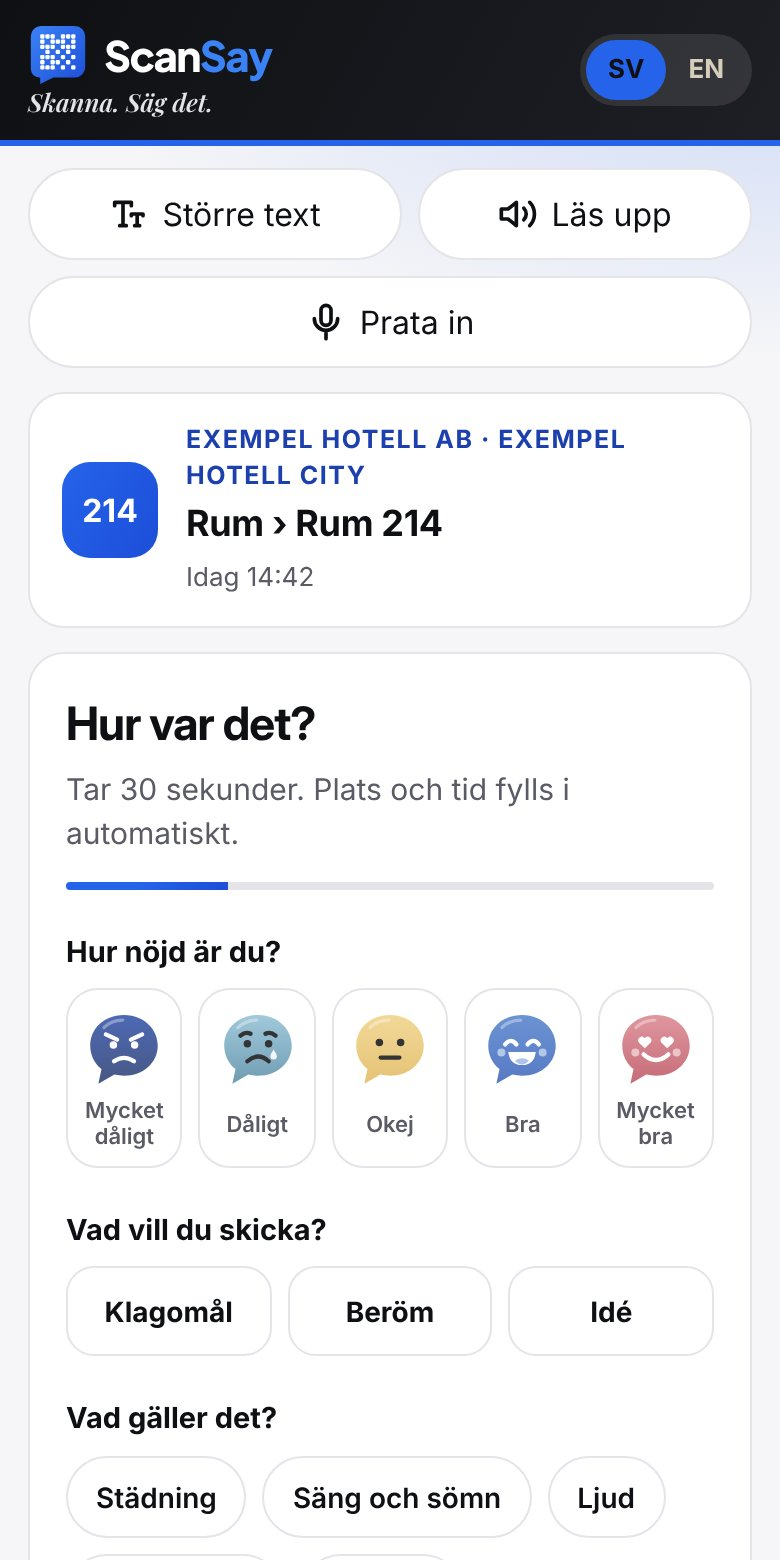
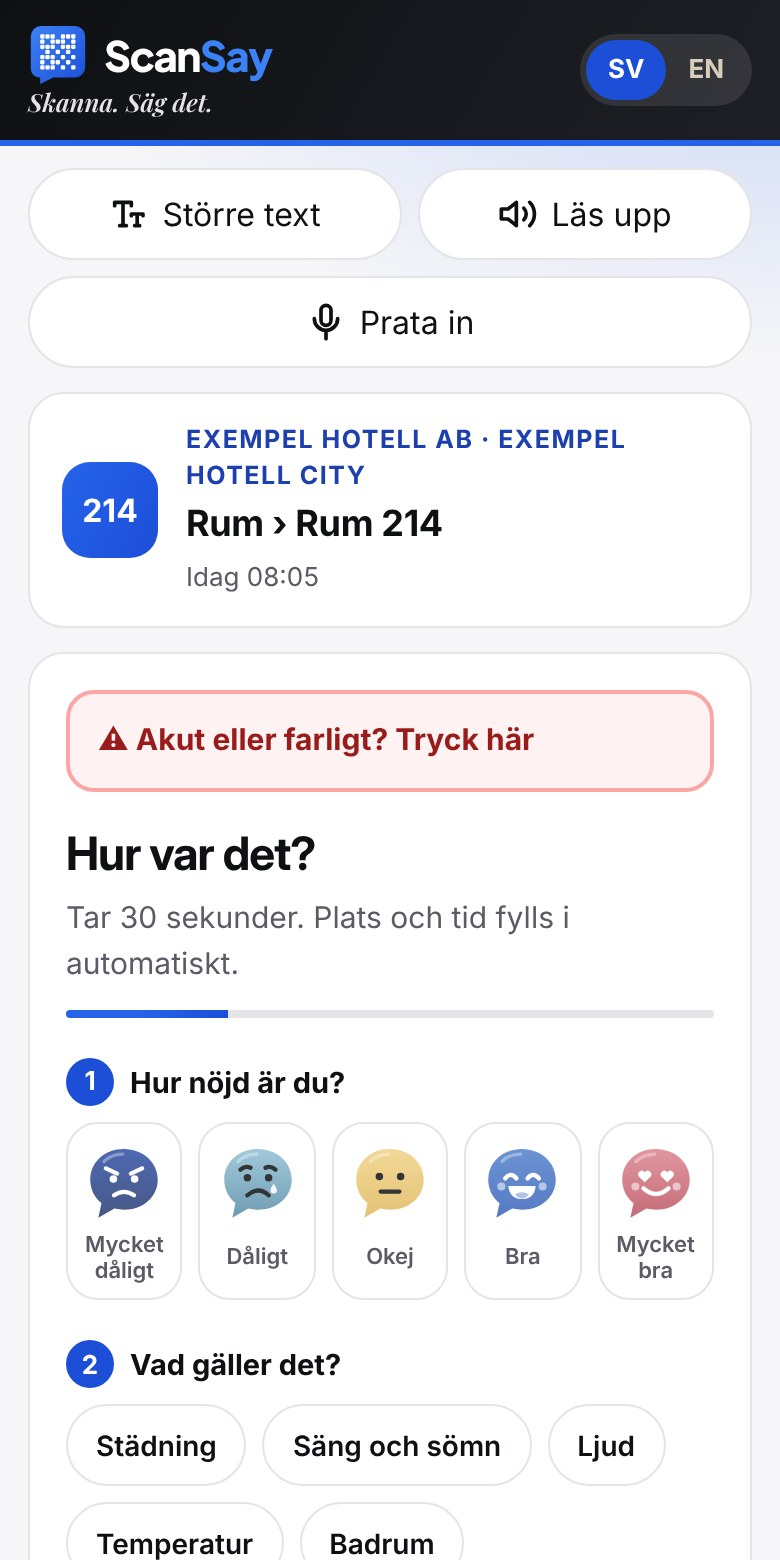
Add files via upload

diff --git a/sign/index.html b/sign/index.html
@@ -18,7 +18,7 @@ input[type=text],input[type=email]{width:100%;font:inherit;border:1px solid #D1D
 button{font:inherit;font-weight:800;border:0;border-radius:10px;padding:14px 20px;background:#1D4ED8;color:#fff;cursor:pointer;width:100%;margin-top:18px;font-size:16px}button:disabled{background:#9CA3AF;cursor:not-allowed}
 .small{font-size:12.5px;color:#4B5563}.ok{background:#DCFCE7;border:1px solid #86EFAC;border-radius:14px;padding:22px}.ok h1{color:#166534}
 table.r{border-collapse:collapse;width:100%;font-size:13.5px;margin-top:10px}table.r td{border:1px solid #E5E7EB;padding:7px 9px}
-@media (max-width:640px){.grid{grid-template-columns:1fr}.box{padding:18px}}
+@media (max-width:640px){.grid{grid-template-columns:1fr}.box{padding:18px}#choose{grid-template-columns:1fr!important}}
 @media print{.top,.box.f,.banner{display:none}body{background:#fff}}
 </style><link rel="stylesheet" href="../fonts.css">
 <style>body,button,input,select,textarea{font-family:var(--font)!important}h1,h2,h3{font-family:var(--font-h)!important}</style>
@@ -28,18 +28,21 @@ table.r{border-collapse:collapse;width:100%;font-size:13.5px;margin-top:10px}tab
 <script src="../legal/contract.js"></script>
 <script>
 const q=new URLSearchParams(location.search),T=q.get('t'),DEMO=q.get('demo')==='1',app=document.getElementById('app');
-const esc=SSContract.esc;let O=null;
+const esc=SSContract.esc;let O=null,ST='sent',NOTE='';
 function decodeDemo(t){const s=t.replace(/-/g,'+').replace(/_/g,'/');return JSON.parse(decodeURIComponent(escape(atob(s))))}
 async function load(){
   if(!T){app.innerHTML='<div class="err">Länken saknar avtal. Använd länken i mejlet från ScanSay.</div>';return}
-  try{if(DEMO){O=decodeDemo(T)}else{const r=await fetch('../api/offer?t='+encodeURIComponent(T));const j=await r.json();if(!r.ok)throw new Error(j.error||'Fel');O=j.offer}}
+  try{if(DEMO){O=decodeDemo(T)}else{const r=await fetch('../api/offer?t='+encodeURIComponent(T));const j=await r.json();if(!r.ok)throw new Error(j.error||'Fel');O=j.offer;ST=j.status||'sent';NOTE=j.note||''}}
   catch(e){app.innerHTML='<div class="err">'+esc(e.message||'Länken är ogiltig.')+'</div>';return}
   draw()}
 function draw(){const c=O.customer||{},card=O.method==='stripe',per=O.interval==='year'?'år':'månad';
   app.innerHTML=`<style>${SSContract.CSS}</style>${DEMO?'<div class="banner"><b>Demo.</b> Den här signeringen sparas inte. När servern är kopplad skickas ett signerat exemplar till båda parter.</div>':''}
-  <h1>Granska och signera</h1><p class="small">Läs igenom offerten och villkoren. Signeringen är juridiskt bindande. Ni får ett signerat exemplar per e-post.</p>
+  <h1>Granska offerten</h1><p class="small">Läs igenom offerten och villkoren. Ni kan signera direkt, be om ändringar eller tacka nej längst ner.</p>
+  ${NOTE?`<div class="box" style="margin-top:12px;border-left:5px solid #C8F542"><b>Meddelande från ScanSay</b><p style="margin:6px 0 0;white-space:pre-wrap">${esc(NOTE)}</p></div>`:''}
+  ${ST!=='sent'?`<div class="ok" style="margin:14px 0;${ST==='signed'?'':'background:#FFF7ED;border-color:#FED7AA'}"><h1 style="font-size:20px;${ST==='signed'?'':'color:#9A3412'}">${ST==='signed'?'Offerten är redan signerad.':ST==='changes'?'Ni har bett om ändringar.':'Ni har tackat nej till offerten.'}</h1><p>${ST==='signed'?'Vi aktiverar kontot och skickar inloggningen per e-post.':ST==='changes'?'Vi går igenom era önskemål och skickar en uppdaterad offert, oftast inom en arbetsdag.':'Tack för beskedet. Hör av er till hello@scansay.se om ni ändrar er.'}</p></div>`:''}
   ${SSContract.offer(O)}
-  <form class="box f" id="f" novalidate><h1 style="font-size:22px">Signera för ${esc(c.name)}</h1>
+  ${ST!=='sent'?'':`<div class="box" style="display:grid;grid-template-columns:1fr 1fr 1fr;gap:10px" id="choose"><button type="button" style="margin:0" onclick="pick('sign')">✍ Signera avtalet</button><button type="button" style="margin:0;background:#fff;color:#0A0F1C;border:1px solid #D1D5DB" onclick="pick('changes')">Jag vill ändra något</button><button type="button" style="margin:0;background:#fff;color:#4B5563;border:1px solid #E5E7EB" onclick="pick('decline')">Inte intresserad</button></div>`}
+  <form class="box f" id="f" novalidate hidden><h1 style="font-size:22px">Signera för ${esc(c.name)}</h1>
    <div class="grid"><div><label for="nm">Ditt fullständiga namn</label><input type="text" id="nm" autocomplete="name" required></div><div><label for="ti">Titel</label><input type="text" id="ti" placeholder="t.ex. VD eller hotellchef" required></div>
    <div><label for="em">E-post för kvitto</label><input type="email" id="em" autocomplete="email" value="${esc(c.email||'')}" required></div><div><label for="org">Organisationsnummer</label><input type="text" id="org" value="${esc(c.org||'')}" placeholder="556677-1122"></div></div>
    <label class="ck"><input type="checkbox" id="c1"> <span>Jag har läst och godkänner offerten och ScanSays allmänna villkor (version ${SSContract.VERSION}).</span></label>
@@ -47,7 +50,17 @@ function draw(){const c=O.customer||{},card=O.method==='stripe',per=O.interval==
    <label class="ck"><input type="checkbox" id="c3"> <span>${card?`Jag godkänner att kortet debiteras ${SSContract.kr(O.price)} exkl. moms i förskott och därefter automatiskt varje ${per} tills avtalet sägs upp enligt villkoren.`:`Jag godkänner betalning mot faktura, ${SSContract.kr(O.price)} exkl. moms per ${per}, i förskott med ${O.invoiceDays||30} dagars betalningsvillkor.`}</span></label>
    <label class="ck"><input type="checkbox" id="c4"> <span>Jag är behörig att ingå avtal för ${esc(c.name)} och avtalet ingås i företagets verksamhet.</span></label>
    <label>Signatur</label><div class="sigprev" id="sp"></div><p class="small">Din signatur skapas från namnet ovan. Vi sparar namn, titel, e-post, IP-adress, tidpunkt och en kontrollsumma av avtalet som bevis.</p>
-   <button type="submit" id="btn" disabled>Signera avtalet</button><p class="small" id="msg" role="status"></p></form>`;
+   <button type="submit" id="btn" disabled>Signera avtalet</button><p class="small" id="msg" role="status"></p></form>
+  ${ST!=='sent'?'':`<form class="box f" id="fc" hidden novalidate><h1 style="font-size:22px">Vad vill ni ändra?</h1><p class="small">Beskriv vad ni vill ändra, till exempel pris, antal platser, betalsätt eller vad som ingår. Vi skickar en uppdaterad offert.</p>
+   <label for="cm">Era önskemål</label><textarea id="cm" rows="5" style="width:100%;font:inherit;border:1px solid #D1D5DB;border-radius:10px;padding:11px 12px" placeholder="T.ex. Vi vill ha 45 rum i stället för 60 och betala per år."></textarea>
+   <label for="cp">Önskat pris (valfritt)</label><input type="text" id="cp" placeholder="T.ex. 4 500 kr per månad">
+   <button type="submit">Skicka önskemål</button><p class="small" id="cmsg" role="status"></p></form>
+  <form class="box f" id="fd" hidden novalidate><h1 style="font-size:22px">Inte intresserad</h1><p class="small">Tack för att ni tittade på offerten. Berätta gärna varför, så blir vi bättre (valfritt).</p>
+   <textarea id="dm" rows="3" style="width:100%;font:inherit;border:1px solid #D1D5DB;border-radius:10px;padding:11px 12px" placeholder="T.ex. för dyrt just nu, eller vi har redan ett system."></textarea>
+   <button type="submit" style="background:#374151">Tacka nej</button><p class="small" id="dmsg" role="status"></p></form>`}`;
+  const fc=document.getElementById('fc'),fd=document.getElementById('fd');
+  if(fc)fc.addEventListener('submit',e=>{e.preventDefault();respond('changes',document.getElementById('cm').value,document.getElementById('cp').value,'cmsg')});
+  if(fd)fd.addEventListener('submit',e=>{e.preventDefault();respond('decline',document.getElementById('dm').value,'','dmsg')});
   const f=document.getElementById('f'),btn=document.getElementById('btn'),ids=['c1','c2','c3','c4'];
   const chk=()=>{ids.forEach(i=>document.getElementById(i).closest('.ck').classList.toggle('on',document.getElementById(i).checked));document.getElementById('sp').textContent=document.getElementById('nm').value;btn.disabled=!(ids.every(i=>document.getElementById(i).checked)&&document.getElementById('nm').value.trim().length>2&&document.getElementById('ti').value.trim().length>1&&/^\S+@\S+\.\S+$/.test(document.getElementById('em').value))};
   f.addEventListener('input',chk);f.addEventListener('change',chk);
@@ -57,6 +70,11 @@ function draw(){const c=O.customer||{},card=O.method==='stripe',per=O.interval==
       else{const r=await fetch('../api/sign',{method:'POST',headers:{'Content-Type':'application/json'},body:JSON.stringify(data)});const j=await r.json();if(!r.ok)throw new Error(j.error||'Fel');rec=j.record}}
     catch(err){document.getElementById('msg').textContent=err.message;btn.disabled=false;btn.textContent='Signera avtalet';return}
     done(rec,data)})}
+function pick(k){['f','fc','fd'].forEach(id=>{const el=document.getElementById(id);if(el)el.hidden=!(id===({sign:'f',changes:'fc',decline:'fd'})[k])});const el=document.getElementById(({sign:'f',changes:'fc',decline:'fd'})[k]);if(el)el.scrollIntoView({behavior:'smooth',block:'start'})}
+async function respond(action,message,price,mid){const m=document.getElementById(mid);if(action==='changes'&&String(message).trim().length<5){m.textContent='Skriv vad ni vill ändra.';return}
+  m.textContent='Skickar…';try{if(!DEMO){const r=await fetch('../api/offer',{method:'POST',headers:{'Content-Type':'application/json'},body:JSON.stringify({t:T,action,message,price})});const j=await r.json();if(!r.ok)throw new Error(j.error||'Fel')}}catch(e){m.textContent=e.message;return}
+  ['choose','f','fc','fd'].forEach(id=>{const el=document.getElementById(id);if(el)el.remove()});
+  app.insertAdjacentHTML('beforeend',`<div class="ok" style="margin-top:18px;${action==='decline'?'background:#F3F4F6;border-color:#E5E7EB':''}"><h1 style="${action==='decline'?'color:#111827':''}">${action==='decline'?'Tack för beskedet.':'Tack! Vi har fått era önskemål.'}</h1><p>${action==='decline'?'Hör gärna av er om ni ändrar er.':'Vi skickar en uppdaterad offert, oftast inom en arbetsdag.'}${DEMO?' (Demo: inget skickades.)':''}</p></div>`);document.querySelector('.ok:last-child').scrollIntoView({behavior:'smooth',block:'center'})}
 function done(r,d){const slot=document.querySelector('[data-sign-slot]');if(slot){slot.classList.remove('ctr-empty');slot.innerHTML='<span class="ctr-signed">'+esc(d.name)+'</span>'}const m=document.querySelector('[data-sign-meta]');if(m)m.textContent=d.name+', '+d.title+' · '+r.ts.slice(0,10);
   document.getElementById('f').outerHTML=`<div class="ok"><h1>Tack! Avtalet är signerat.</h1><p>${DEMO?'Demo: inget skickades.':'Ett signerat exemplar har skickats till '+esc(d.email)+'.'} ${O.method==='stripe'?'Ni får strax en säker betalningslänk från Stripe för att lägga in kortet.':'Fakturan skickas till er e-post.'}</p>
   <table class="r"><tr><td><b>Signerings-id</b></td><td>${esc(r.id)}</td></tr><tr><td><b>Tidpunkt</b></td><td>${esc(r.ts)}</td></tr><tr><td><b>Signerat av</b></td><td>${esc(r.name)}, ${esc(r.title)}</td></tr><tr><td><b>Avtalsversion</b></td><td>${esc(r.version)}</td></tr><tr><td><b>Kontrollsumma</b></td><td style="word-break:break-all">${esc(r.sha256||'')}</td></tr></table>

diff --git a/legal/contract.js b/legal/contract.js
@@ -6,7 +6,7 @@
   const kr = n => Math.round(+n || 0).toLocaleString('sv-SE') + ' kr';
   const date = t => { const d = t ? new Date(t) : new Date(); return isNaN(d) ? String(t) : d.toLocaleDateString('sv-SE', { year: 'numeric', month: 'long', day: 'numeric' }); };
   const SELLER = { name: 'ScanSay AB', org: '559XXX-XXXX', address: 'Adress, postnummer och ort', email: 'hello@scansay.se', web: 'scansay.se', bankgiro: 'XXX-XXXX', vatNo: 'SE559XXXXXXX01' };
-  const PLAN_NAMES = { start: 'Start', pro: 'Pro', business: 'Business', enterprise: 'Enterprise', s: 'Liten', m: 'Mellan', l: 'Stor', e: 'Företag' };
+  const PLAN_NAMES = { start: 'Liten', pro: 'Mellan', business: 'Stor', enterprise: 'Företag', s: 'Liten', m: 'Mellan', l: 'Stor', e: 'Företag' };
 
   /* d = { no, date, seller{}, customer{name,org,contact,email,phone,address}, plan, industry, places, unit, agents, price, interval:'month'|'year',
            method:'stripe'|'invoice', start, termMonths, autoRenew, noticeDays, invoiceDays, vat, note, validDays } */
